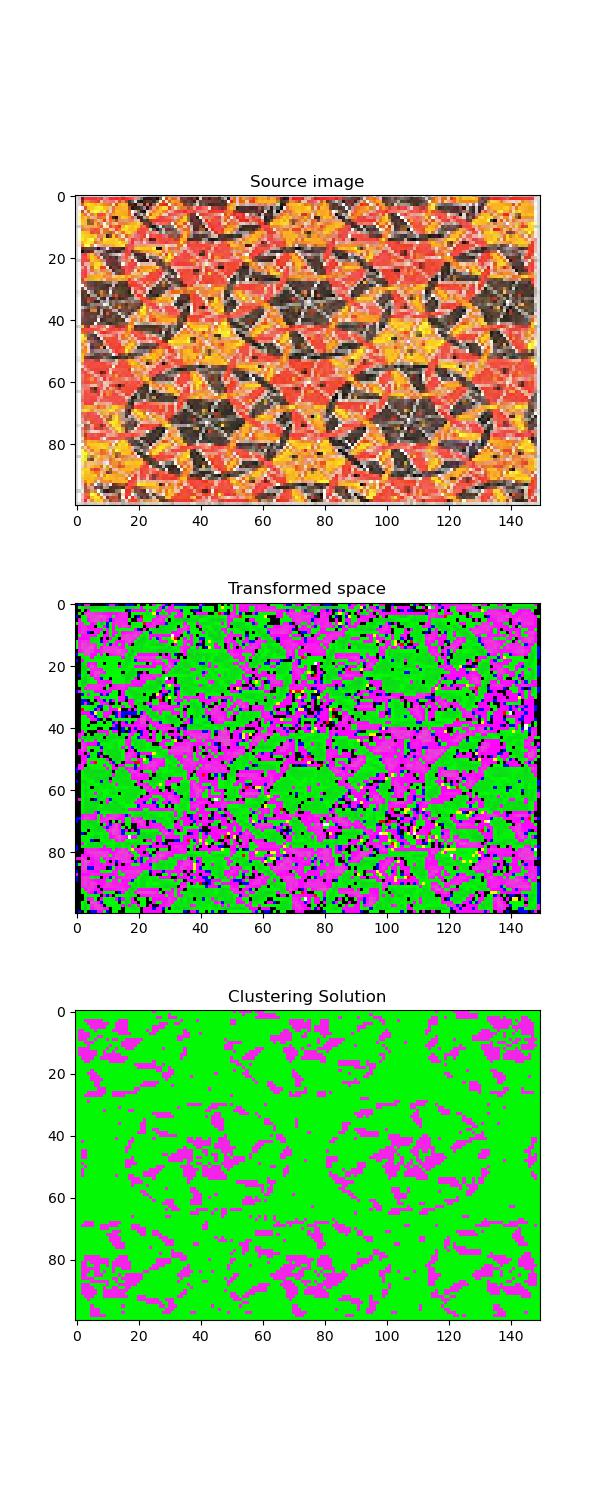
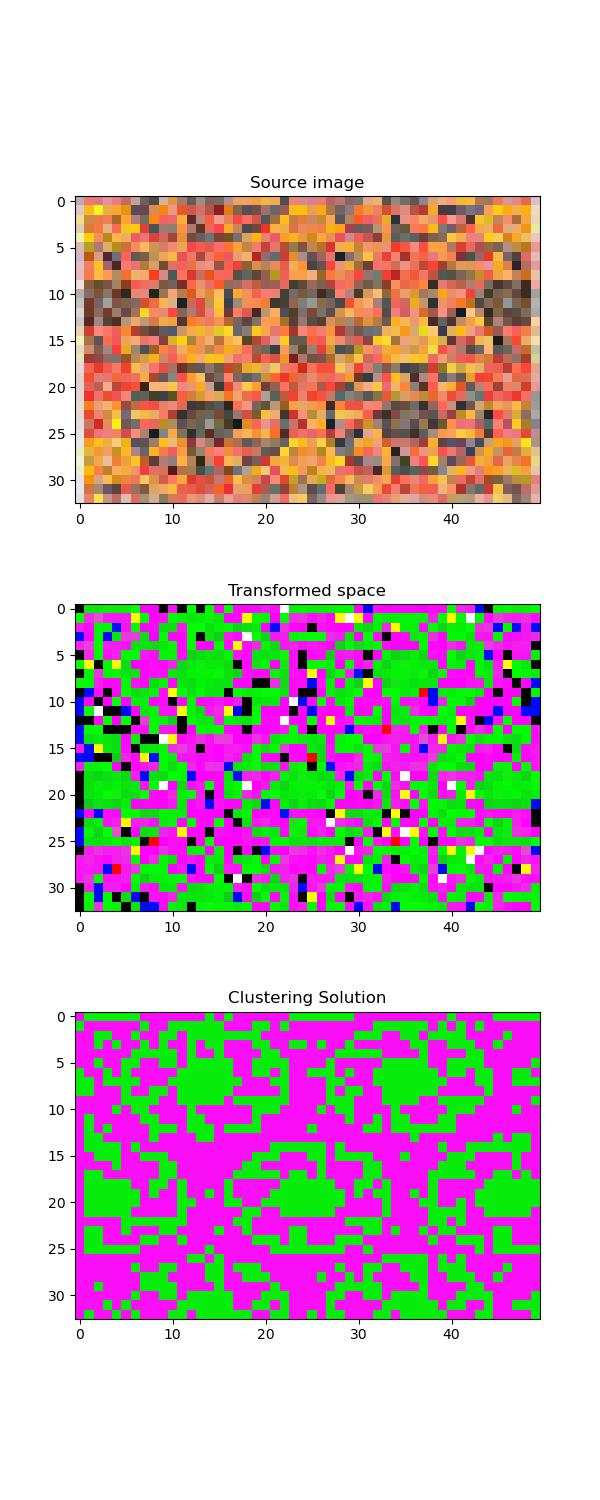
testing

diff --git a/PrincipledFlexibleFrameworkForFindingAlternativeClusterings/main_principled.py b/PrincipledFlexibleFrameworkForFindingAlternativeClusterings/main_principled.py
@@ -13,7 +13,7 @@ from scipy.linalg import fractional_matrix_power
 
 # ========================================================================
 
-def generate_data(type='4-2-2'):
+def generate_data(type='4-2-2'):			# 4 features, 2 clusters, 2 views
 	import os
 	if not os.path.exists('results'): os.makedirs('results')
 	
@@ -23,8 +23,8 @@ def generate_data(type='4-2-2'):
 		datatype = 'F-C-V'
 		return DATA, k, datatype
 		
-	elif type == '2-2-4':
-		DATA = data224()
+	elif type == '2-2-3':
+		DATA = data223()
 		k = 2
 		datatype = 'F-C-V'
 		return DATA, k, datatype
@@ -36,7 +36,7 @@ def generate_data(type='4-2-2'):
 		return DATA, k, datatype, imRow, imCol, imDim
 
 
-def data224():								# 2 features, 2 clusters, 4 views
+def data223():								# 2 features, 2 clusters, 3 views
 	X = []
 	M = [[2, 2],[-2, 2],[-2, -2],[2, -2]]
 	for m in M:
@@ -119,13 +119,18 @@ def random_clusters(DATA, X, colors, t):
 
 
 def image_clusters(DATA, X, colors, t):
-	IMG_DATA = copy.deepcopy(DATA).reshape(imRow, imCol, imDim)
-	IMG_X    = np.array(copy.deepcopy(X),  dtype='uint8').reshape(imRow, imCol, imDim)
+	IMG_DATA = np.array(copy.deepcopy(DATA), dtype='uint8').reshape(imRow, imCol, imDim)
+	IMG_X    = np.array(copy.deepcopy(X), dtype='uint8').reshape(imRow, imCol, imDim)
 	
 	f, (ax1, ax2, ax3) = plt.subplots(3,1, sharex=False, sharey=False, figsize=(6, 15))
-	ax1.imshow(IMG_DATA); ax1.set_title('Source image')								# view the original space
-	ax2.imshow(IMG_X)   ; ax2.set_title('Transformed space')						# view the transformed space (to the space orthogonal to the clustering solution)
-	ax3.imshow(np.array(colors, dtype='uint8').reshape(imRow, imCol, imDim)); ax3.set_title('Clustering Solution')
+	ax1.imshow(IMG_DATA)
+	ax1.set_title('Source image')								# view the original space
+	
+	ax2.imshow(IMG_X)
+	ax2.set_title('Transformed space')							# view the transformed space (to the space orthogonal to the clustering solution)
+	
+	ax3.imshow(np.array(colors).reshape(imRow, imCol, imDim))	# view the segmented space (center colors)
+	ax3.set_title('Clustering Solution')
 	
 	plt.savefig(r'results/image_clustering_n_'+str(t+1)+'.jpg')
 	plt.close('all')	
@@ -143,7 +148,7 @@ def princ_flex_framework_AlternativeClustering(DATA, a, alternatives, k, datatyp
 		
 		if datatype == 'image': clr = np.array(h.cluster_centers_, dtype='uint8') 	# For coloring pixels of each cluster by the mean color (centroid) 
 		else: 					clr = ['green','yellow','black','blue']				# For coloring data points of each cluster by a given color
-		plot_clusters( DATA, X, [ clr[i] for i in h.predict(X) ], t)				# Coloring original (DATA) and transformed (X) based on X clustering
+		plot_clusters( DATA, X, [ clr[i] for i in h.predict(X) ], t )				# Coloring original (DATA) and transformed (X) based on X clustering
 		
 		S = np.zeros( (len(DATA[0]),len(DATA[0])) ) # Sigma: data point variation for (k-1) centroids where this data point unlikely belongs to PI'
 		

diff --git a/MultiViewClusteringViaOrthogonalization/main_multiview.py b/MultiViewClusteringViaOrthogonalization/main_multiview.py
@@ -123,12 +123,12 @@ def image_clusters(DATA, X, colors, t):
 	
 	f, (ax1, ax2, ax3) = plt.subplots(3,1, sharex=False, sharey=False, figsize=(6, 15))
 	ax1.imshow(IMG_DATA)
-	ax1.set_title('Source image')			# view the original space
+	ax1.set_title('Source image')								# view the original space
 	
 	ax2.imshow(IMG_X)
-	ax2.set_title('Transformed space')		# view the space orthogonal to the clustering solution
+	ax2.set_title('Transformed space')							# view the space orthogonal to the clustering solution
 	
-	ax3.imshow(np.array(colors).reshape(imRow, imCol, imDim)) # view the segmented space (center colors)
+	ax3.imshow(np.array(colors).reshape(imRow, imCol, imDim)) 	# view the segmented space (center colors)
 	ax3.set_title('Clustering Solution')
 	
 	plt.savefig(r'results/image_clustering_n_'+str(t+1)+'.jpg')
@@ -147,7 +147,7 @@ def mView_Clustering_via_Orthogonalization(DATA, alternatives, k, datatype):
 		
 		if datatype == 'image': clr = np.array(h.cluster_centers_, dtype='uint8') 	# For coloring pixels of each cluster by the mean color (centroid) 
 		else: 					clr = ['green','yellow','black','blue']				# For coloring data points of each cluster by a given color
-		plot_clusters( DATA, X, [ clr[i] for i in h.predict(X) ], t) 				# Coloring original (DATA) and transformed (X) based on X clustering
+		plot_clusters( DATA, X, [ clr[i] for i in h.predict(X) ], t ) 				# Coloring original (DATA) and transformed (X) based on X clustering
 		
 		if t == alternatives - 1: break
 		
